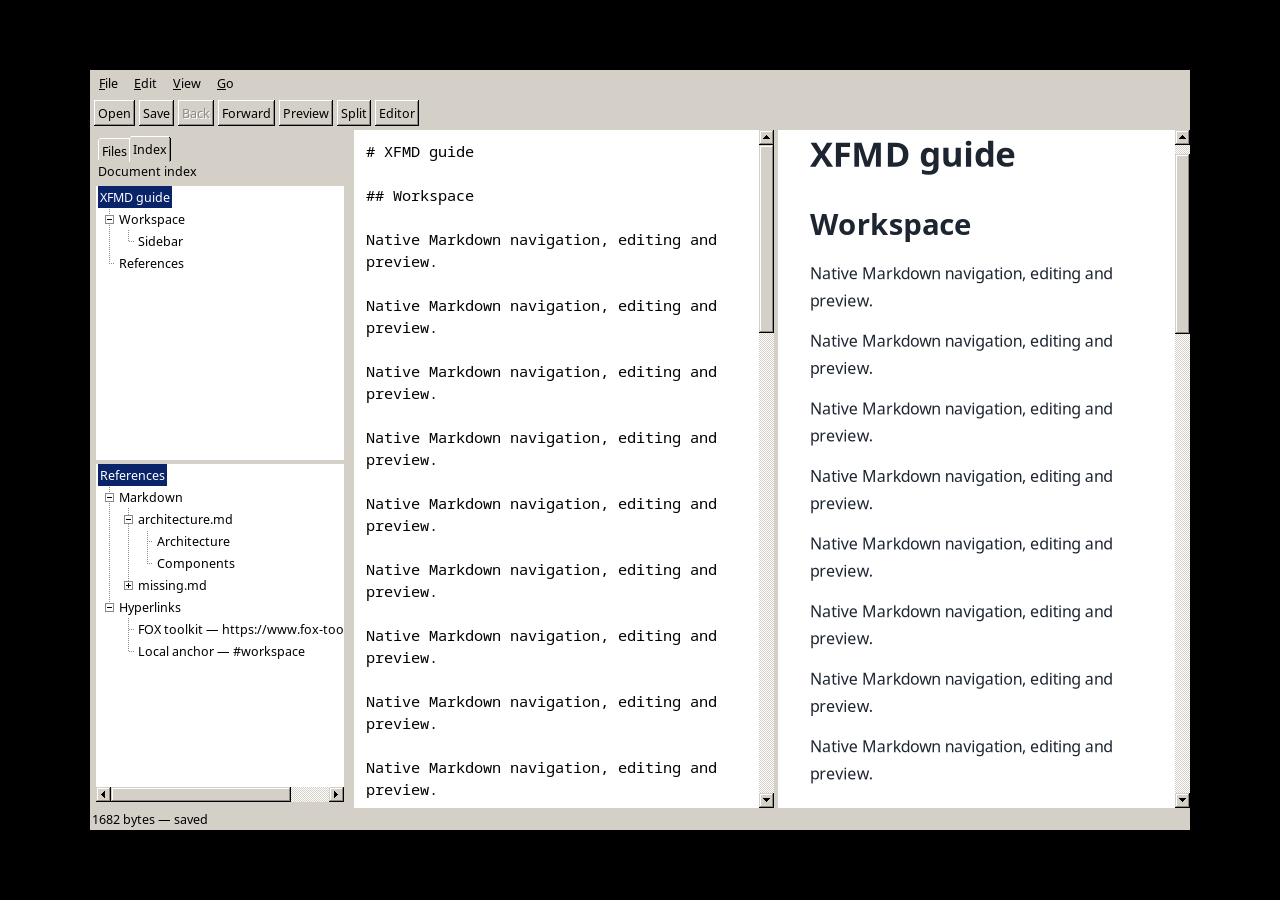
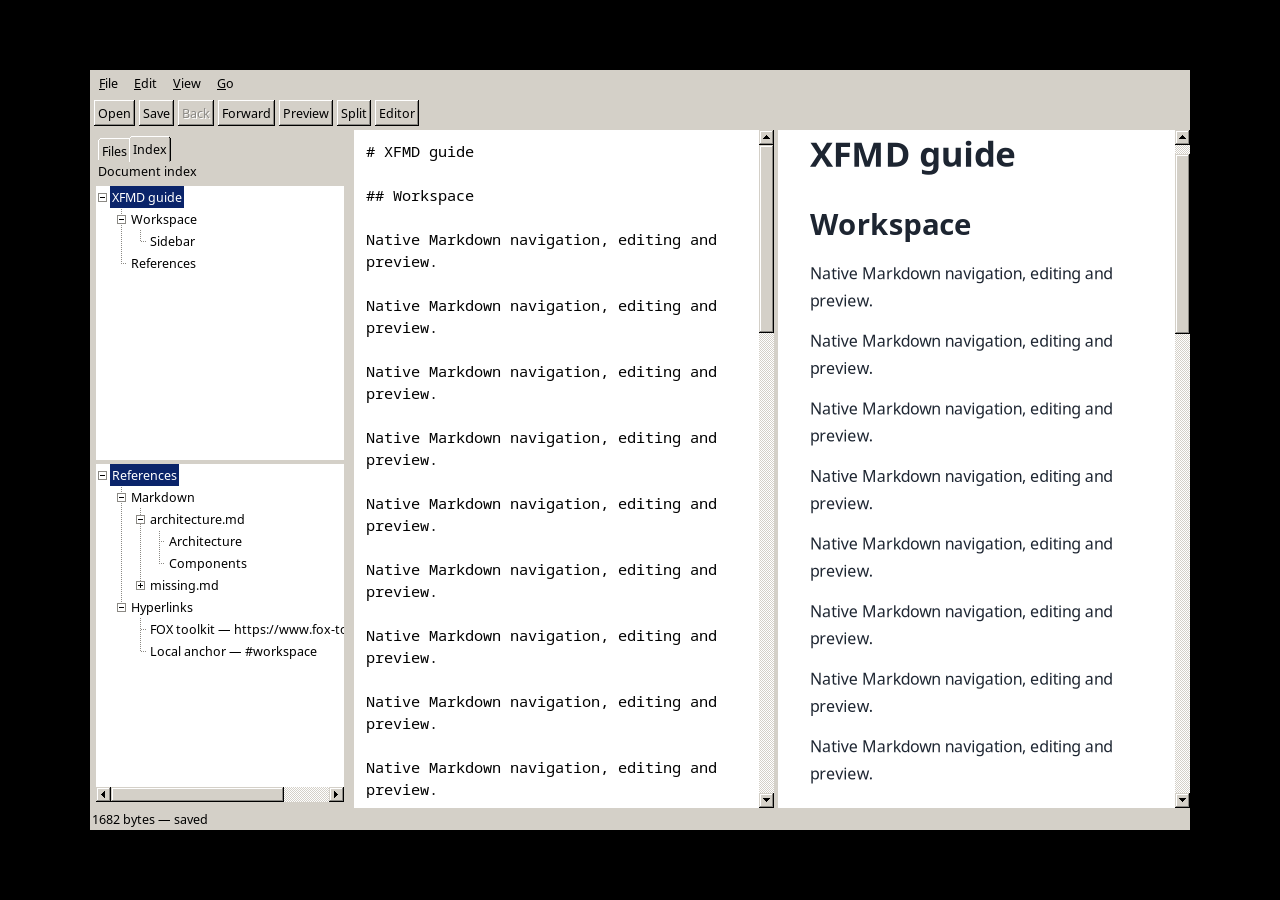
Expose root expansion controls and verify native tree toggles

Changed region(s): [[0.0625, 0.4978, 0.2812, 0.7467], [0.0625, 0.1867, 0.1562, 0.3111]]

diff --git a/tests/gui/IndexGuiTest.cpp b/tests/gui/IndexGuiTest.cpp
@@ -59,6 +59,19 @@ void clickItem(Application& app, FXTreeList* tree, FXTreeItem* item, unsigned lo
   CHECK(y >= 0);
   click(app, tree, 45 + depth * tree->getIndent(), y, time);
 }
+void clickBox(Application& app, FXTreeList* tree, FXTreeItem* item, unsigned long time) {
+  tree->makeItemVisible(item);
+  events(app, 2);
+  for (int y = 0; y < tree->getViewportHeight(); ++y)
+    if (tree->getItemAt(100, y) == item) {
+      for (int x = 0; x < 120; ++x)
+        if (tree->hitItem(item, x, y + 5) == 3) {
+          click(app, tree, x, y + 5, time);
+          return;
+        }
+    }
+  CHECK(false);
+}
 void key(Application& app, FXWindow* window, KeySym symbol) {
   auto* display = static_cast<Display*>(app.app.getDisplay());
   XEvent e{};
@@ -109,6 +122,10 @@ void run() {
   CHECK(panel->tabs->getCurrent() == 1 && app.session.view().token == token);
   auto* title = index->outline->getFirstItem();
   CHECK(title && title->getText() == "XFMD guide");
+  clickBox(app, index->outline, title, 1200);
+  CHECK(!title->isExpanded() && app.session.view().token == token);
+  clickBox(app, index->outline, title, 1300);
+  CHECK(title->isExpanded());
   auto* workspace = title->getFirst();
   CHECK(workspace && workspace->getFirst()->getText() == "Sidebar");
   auto* chapter = workspace->getNext();
@@ -126,7 +143,7 @@ void run() {
   CHECK(root->getText() == "References" && root->getFirst()->getText() == "Markdown");
   CHECK(root->getLast()->getText() == "Hyperlinks");
   auto* file = root->getFirst()->getFirst();
-  index->references->expandTree(file, true);
+  clickBox(app, index->references, file, 2500);
   events(app);
   settle(app);
   CHECK(file->getFirst()->getText() == "Architecture");

diff --git a/src/application/ui/NavigationTree.cpp b/src/application/ui/NavigationTree.cpp
@@ -14,7 +14,7 @@ FXIMPLEMENT(NavigationTree, FXTreeList, navigationTreeMap, ARRAYNUMBER(navigatio
 NavigationTree::NavigationTree(FXComposite* parent)
     : FXTreeList(parent, this, ID_EVENT,
                  TREELIST_BROWSESELECT | TREELIST_SHOWS_LINES | TREELIST_SHOWS_BOXES |
-                     LAYOUT_FILL_X | LAYOUT_FILL_Y) {
+                     TREELIST_ROOT_BOXES | LAYOUT_FILL_X | LAYOUT_FILL_Y) {
   horizontal = FoxWheelScrollBar::replace(horizontal);
   vertical = FoxWheelScrollBar::replace(vertical);
 }

diff --git a/docs/evidence/P15.md b/docs/evidence/P15.md
@@ -60,3 +60,7 @@ innenfor SR-011s grenser på 500 ms og 100 MiB. Ingen langvarig batteritest.
 
 Installert atomisk til `~/.local/bin/xfmd` fra Release-staging; `cmp` mot bygget
 binærfil og desktop-file-validate passerte. Åpen brukerprosess ble ikke restartet.
+
+M3-oppfølging: rotkapitler og References får også synlige +/−-bokser. Native klikk
+på rotens bokser og på filens utvidelsesboks inngår nå i IndexGuiTest; Release og
+ASan/UBSan/LSan-testen er kjørt på nytt etter denne visuelle justeringen.
